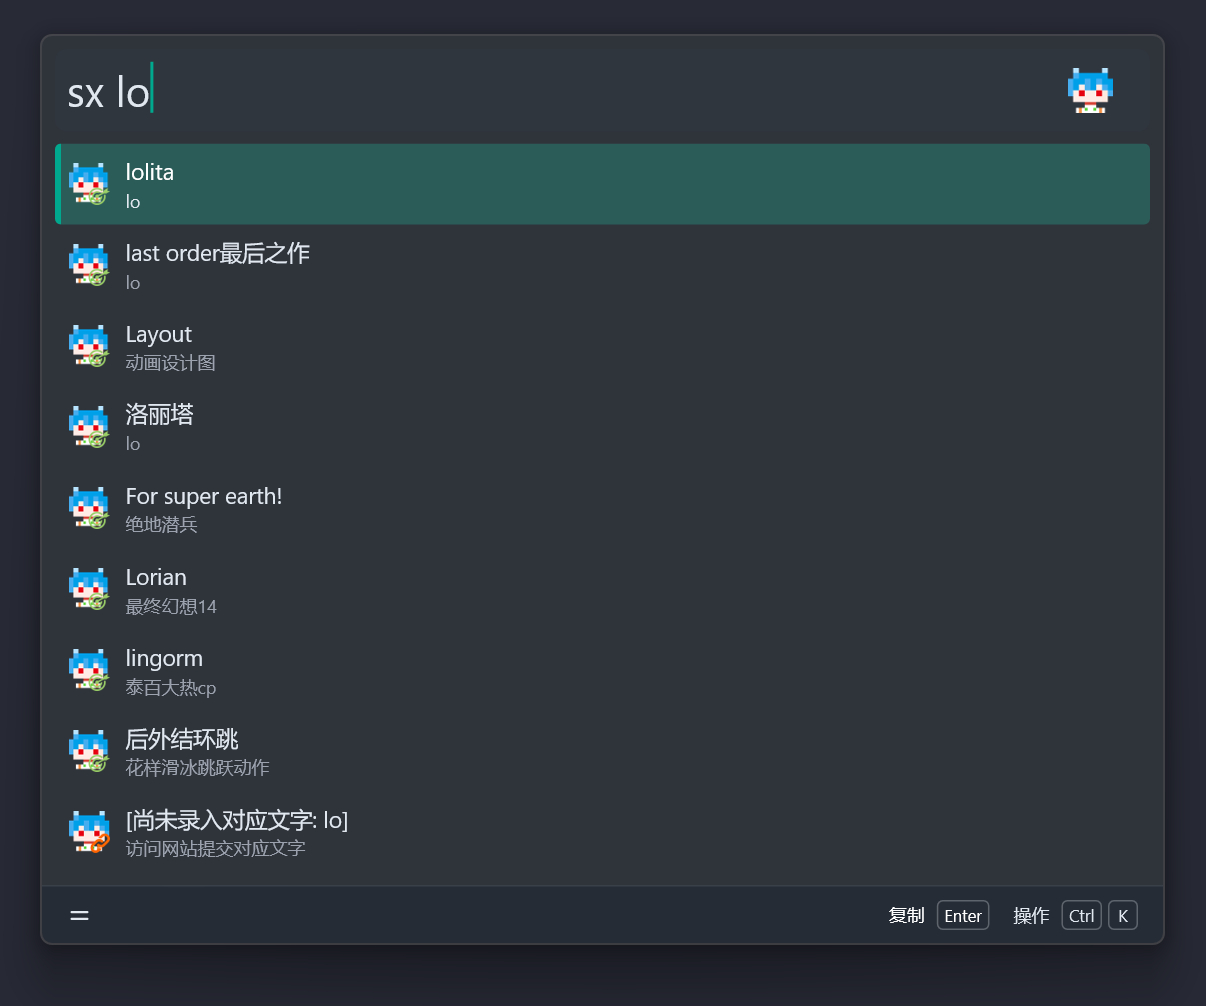
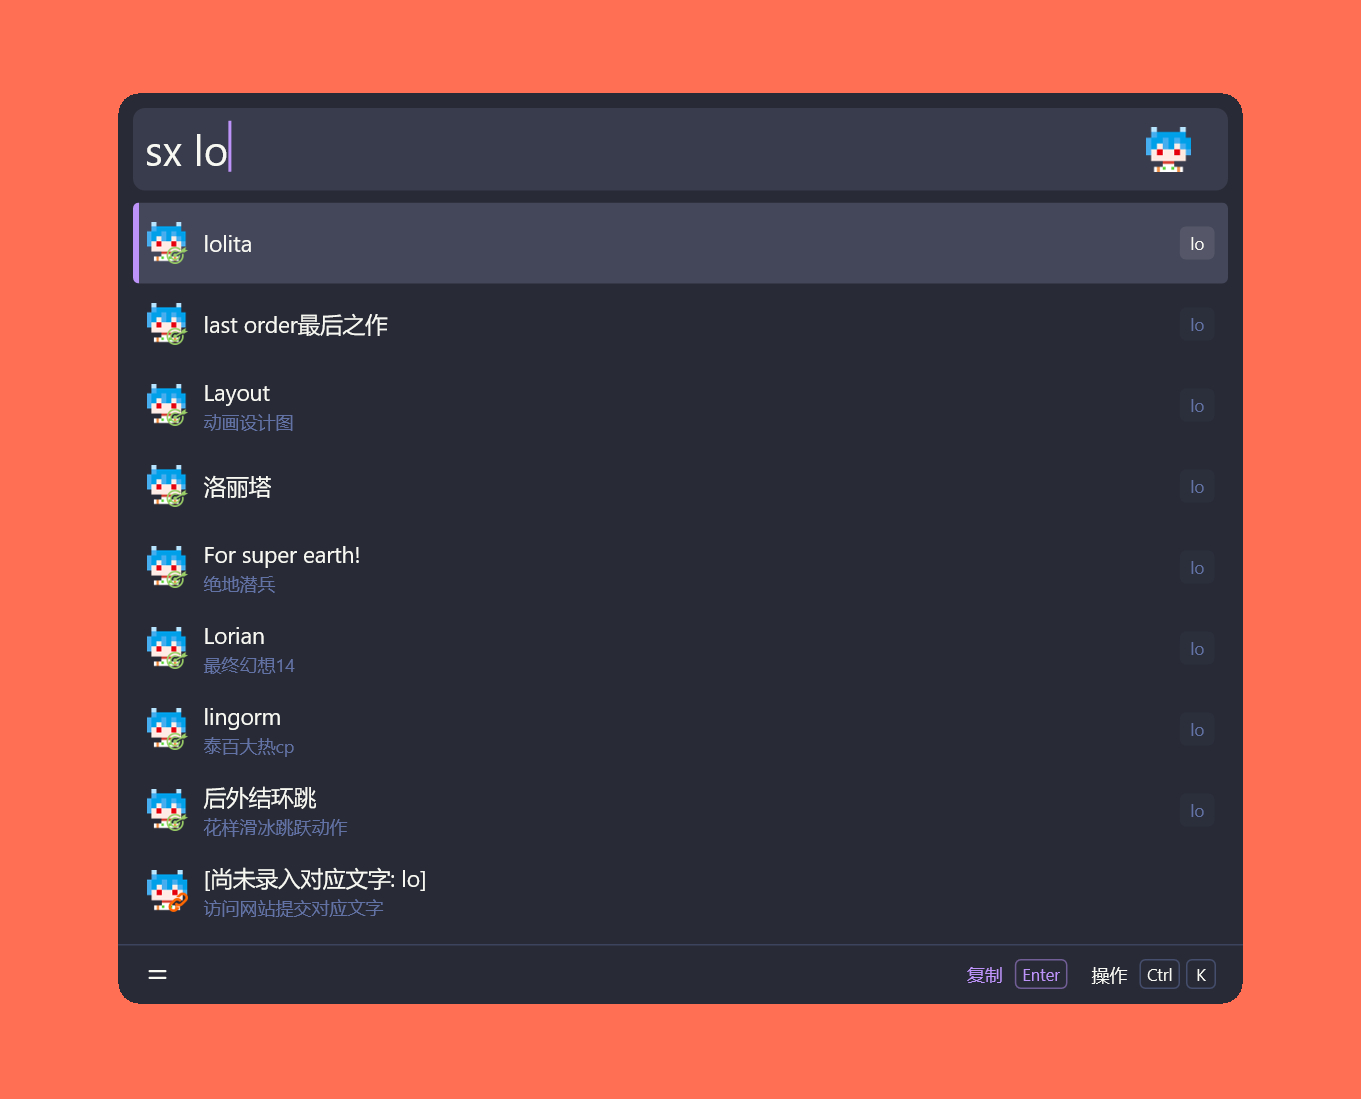
feat(nbnhhsh): 使用结果尾部标签展示原始缩写名
- 新增 `_name_tail` 方法，通过 `ResultTail` 将原始缩写固定在结果尾部
- 翻译与猜测结果的 `sub_title` 不再回退显示缩写名，仅保留含义文本
- 更新 assets/preview.jpg 预览图以匹配新界面布局

diff --git a/src/nbnhhsh_main.py b/src/nbnhhsh_main.py
@@ -15,6 +15,8 @@ from wox_plugin import (
     QueryResponse,
     Result,
     ResultAction,
+    ResultTail,
+    ResultTailType,
     WoxImage,
 )
 
@@ -79,6 +81,12 @@ class Nbnhhsh:
             action=_do,
         )
 
+    def _name_tail(self, name: str) -> list[ResultTail]:
+        """把原始缩写名固定在结果尾部，与 sub_title 的含义区分开。"""
+        if not name:
+            return []
+        return [ResultTail(type=ResultTailType.TEXT, text=name, id="name")]
+
     def _submit_result(self, text: str) -> Result:
         return Result(
             title=f"[尚未录入对应文字: {text}]",
@@ -128,9 +136,10 @@ class Nbnhhsh:
                 results.append(
                     Result(
                         title=parsed,
-                        sub_title=sub or name,
+                        sub_title=sub,
                         icon=_ICON_TRANS,
                         score=score,
+                        tails=self._name_tail(name),
                         actions=[
                             self._copy_action("复制", parsed),
                             self._copy_action("复制原始内容", tran, is_default=False),
@@ -145,6 +154,7 @@ class Nbnhhsh:
                         sub_title="可能的结果",
                         icon=_ICON_INPUTTING,
                         score=score,
+                        tails=self._name_tail(name),
                         actions=[self._copy_action("复制", guess)],
                     )
                 )
